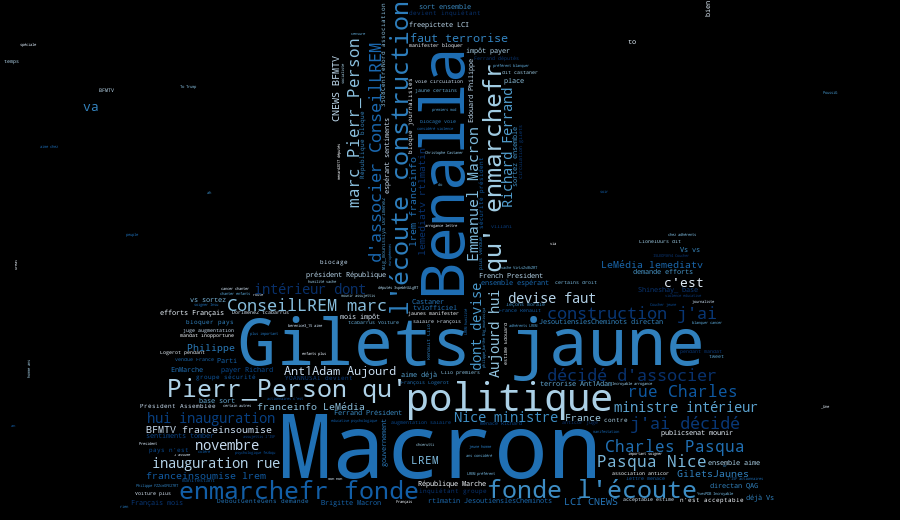
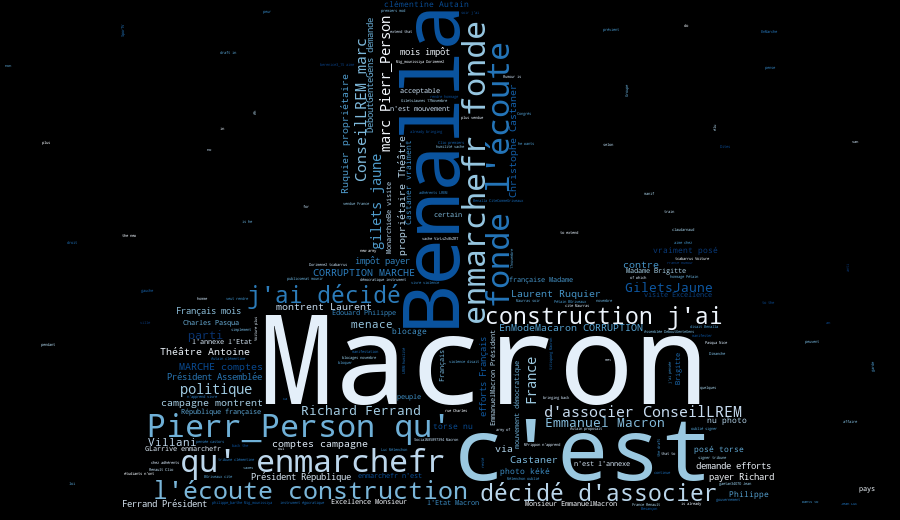
Dernier commit. Implémentation du serveur bash, rajout de deux candidats politiques. Extension de l'application pour qu'elle fonctionne pour n'importe quel nombre de candidats. Todo lundi matin : testing du serveur (je ne peux pas tester actuellement car l'API est indisponible, j'ai fait trop de req

Changed region(s): [[0.1244, 0.0, 0.8711, 0.9846], [0.7778, 0.0, 0.8089, 0.0308], [0.0933, 0.1846, 0.1244, 0.2154]]

diff --git a/twitterPredictor/twitterDisplay/main.py b/twitterPredictor/twitterDisplay/main.py
@@ -5,109 +5,88 @@ import matplotlib.pyplot as plt
 import dash
 import dash_core_components as dcc
 import dash_html_components as html
-
-
-external_stylesheets = ['https://codepen.io/chriddyp/pen/bWLwgP.css']
-
-app = dash.Dash(__name__, external_stylesheets=external_stylesheets)
-
-app.layout = html.Div(children=[
-    html.H1(children='Popularité des candidats'),
-
-    html.Div(children='''
-        Graphes de comparaison des popularités de chaque candidat".
-    '''),
-
-
-#liste avg_RTS est une liste contennant les retweets moyen pour chaque candidat
-#liste avg_FAVS est une liste contennant les favoris moyen pour chaque candidat
-#avg_hashtags est une liste contennat le nombre moyen de hashtags pour chaque candidat
-#len_tweet est une liste contennant la longueur moyenne des tweets par candidat
-#tweet_sentimental est une liste de liste contennant les sentiments pour chaque candidat ( 0 neg, 1 neutre, 2 positif)
-#http://127.0.0.1:8050
-    dcc.Graph(
-        id='example-graphRTS',
-        figure={
-            'data': [
-                {'x': [1], 'y': [avg_RTS[0]], 'type': 'bar', 'name': 'Macron'},
-                {'x': [2], 'y': [avg_RTS[1]], 'type': 'bar', 'name': u'Fillon'},
-                {'x': [3], 'y': [avg_RTS[2]], 'type': 'bar', 'name': u'Le Pen'},
-            ],
-            'layout': {
-                'title': 'nombre moyen de retweets par candidat '
-            }
-        }
-    ),
-    dcc.Graph(
-        id='example-graphFAVS',
-        figure={
-            'data': [
-                {'x': [1], 'y': [avg_FAVS[0]], 'type': 'bar', 'name': 'Macron'},
-                {'x': [2], 'y': [avg_FAVS[1]], 'type': 'bar', 'name': u'Fillon'},
-                {'x': [3], 'y': [avg_FAVS[2]], 'type': 'bar', 'name': u'Le Pen'},
-            ],
-            'layout': {
-                'title': 'nombre moyen de favoris par candidat '
-            }
-        }
-    ),
-    dcc.Graph(
-        id='example-graphhashtags',
-        figure={
-            'data': [
-                {'x': [1], 'y': [avg_hashtags[0]], 'type': 'bar', 'name': 'Macron'},
-                {'x': [2], 'y': [avg_hashtags[1]], 'type': 'bar', 'name': u'Fillon'},
-                {'x': [3], 'y': [avg_hashtags[2]], 'type': 'bar', 'name': u'Le Pen'},
-            ],
-            'layout': {
-                'title': 'nombre moyen de hashtags par candidat '
-            }
-        }
-    ),
-    dcc.Graph(
-        id='example-graphtweets',
-        figure={
-            'data': [
-                {'x': [1], 'y': [len_tweet[0]], 'type': 'bar', 'name': 'Macron'},
-                {'x': [2], 'y': [len_tweet[1]], 'type': 'bar', 'name': u'Fillon'},
-                {'x': [3], 'y': [len_tweet[2]], 'type': 'bar', 'name': u'Le Pen'},
-            ],
-            'layout': {
-                'title': 'longueur moyenne des tweets par candidat '
-            }
-        }
-    ),
-    dcc.Graph(
-        id='example-graphsentiments',
-        figure={
-            'data': [
-                {'x': [1,2,3], 'y': [tweet_sentimental[0][0],tweet_sentimental[0][1],tweet_sentimental[0][2]], 'type': 'bar', 'name': 'Macron'},
-                {'x': [1,2,3], 'y': [tweet_sentimental[1][0],tweet_sentimental[1][1],tweet_sentimental[1][2]], 'type': 'bar', 'name': u'Fillon'},
-                {'x': [1,2,3], 'y': [tweet_sentimental[2][0],tweet_sentimental[2][1],tweet_sentimental[2][2]], 'type': 'bar', 'name': u'Le Pen'},
-            ],
-            'layout': {
-                'title': 'graphe de subjectivité des candidats '
-            }
-        }
-    ),
-    html.Div(children='''
-        tweets négatifs,neutres positifs.
-    ''')
-])
-
-if __name__ == '__main__':
-    app.run_server(debug=True)
+import base64
 
 from os import path
 from PIL import Image
 from wordcloud import WordCloud, STOPWORDS, ImageColorGenerator
-
 from stop_words import get_stop_words
 
-stop_words = get_stop_words('fr')
 
-numberCandidates = 3
+# liste avg_RTS est une liste contennant les retweets moyen pour chaque candidat
+# liste avg_FAVS est une liste contennant les favoris moyen pour chaque candidat
+# avg_hashtags est une liste contennat le nombre moyen de hashtags pour chaque candidat
+# len_tweet est une liste contennant la longueur moyenne des tweets par candidat
+# tweet_sentimental est une liste de liste contennant les sentiments pour chaque candidat ( 0 neg, 1 neutre, 2 positif)
 
+# Adresse du serveur sur lequel les résultats seront affichés : http://127.0.0.1:8050
+
+
+numberCandidates = 5
+
+def launch_app(analysis): 
+    external_stylesheets = ['https://codepen.io/chriddyp/pen/bWLwgP.css'] # Feuille template stylisant l'interface Dash
+
+    app = dash.Dash(__name__, external_stylesheets=external_stylesheets) # Création de l'object application
+
+    app.layout = html.Div(children=[
+            html.H1(children='Popularité des candidats'),
+
+            html.Div(children='Graphes de comparaison des popularités de chaque candidat.'),
+
+            dcc.Graph(
+                id='graphRts',
+                figure={
+                'data' : [{'x' : [i], 'y' : [analysis[i - 1]["avg_RT"]], 'type' : 'bar', 'name' : 'Candidat numéro ' + str(i)} for i in range(1, numberCandidates + 1)],
+                'layout': {
+                'title': 'Nombre moyen de retweets par tweet.'
+                }
+                }),
+
+            dcc.Graph(
+                    id='graphFavs',
+                    figure={
+                    'data':  [{'x' : [i], 'y' : [analysis[i - 1]["avg_fav"]], 'type' : 'bar', 'name' : 'Candidat numéro ' + str(i)} for i in range(1, numberCandidates + 1)],
+                    'layout': {
+                    'title': 'Nombre moyen de personnes marquant un tweet conercnant un candidat en tant que favoris.'
+                    }
+                    }),
+
+            dcc.Graph(
+                    id='graphHashtags',
+                    figure={
+                    'data': [{'x' : [i], 'y' : [analysis[i - 1]["avg_hashtag"]], 'type' : 'bar', 'name' : 'Candidat numéro ' + str(i)} for i in range(1, numberCandidates + 1)],
+
+                    'layout': {
+                    'title': 'Nombre moyen de hashtags par candidat.'
+                    }
+                    }),
+
+            dcc.Graph(
+                    id='graphLenTweets',
+                    figure={
+                    'data': [{'x' : [i], 'y' : [analysis[i - 1]["avg_len_tweets"]], 'type' : 'bar', 'name' : 'Candidat numéro ' + str(i)} for i in range(1, numberCandidates + 1)],
+                    'layout': {
+                    'title': 'Longueur moyenne des tweets par candidat.'
+                    }
+                    }),
+
+            dcc.Graph(
+                    id='graphSentiments',
+                    figure={
+                    'data' : [{'x' :  [i], 'y' : [analysis[i - 1]["tweets_neg"], analysis[i - 1]["tweets_neu"], analysis[i - 1]["tweets_pos"]], 'type' : 'bar', 'name' : 'Candidat numéro ' + str(i)} for i in range(1, numberCandidates + 1)],
+                    'layout': {
+                    'title': 'Graphe de subjectivité des tweets par candidat.'
+                    }
+                    }),
+
+            html.Div(children='''
+                    Tweets négatifs, tweets neutres, tweets positifs.''')
+            ])
+
+    app.run_server(debug=True)
+
+"""
 def get_frequency(text):
     resultat, tempdict = multidict.MultiDict(), {}
 
@@ -119,7 +98,7 @@ def get_frequency(text):
     for key in tempdict: # On copie tempdict dans un Multidict
         resultat.add(key, tempdict[key])
 
-    return resultat
+    return resultat"""
 
 def nuage(tweets, c = -1): # Fonction affichant le wordcloud associé aux tweets concernant le candidat numéro c
     if c != -1: # Le cas c = -1 correspond à effectuer un wordcloud sur l'ensemble des tweets concernant tous les candidats
@@ -128,13 +107,15 @@ def nuage(tweets, c = -1): # Fonction affichant le wordcloud associé aux tweets
     chaine = ""
     for t in tweets: # Concaténation des tweets pour analyse statistique (wordcloud)
         chaine += t["text"]
+
+    stop_words = get_stop_words('fr')
     
     stopwords = set(stop_words) # Mots à exclure car trop communs
     stopwords.update(["https", "co", "RT"])
 
     wave_mask = np.array(Image.open("mask.jpg")) # Création du masque
 
-    wordcloud = WordCloud(colormap = "Blues", mask=wave_mask, stopwords = stopwords).generate_from_frequencies(get_frequency(chaine)) # Création du wordcloud
+    wordcloud = WordCloud(colormap = "Blues", mask=wave_mask, stopwords = stopwords).generate(chaine) # Création du wordcloud
 
     #plt.imshow(wordcloud, interpolation='bilinear') # Affichage du wordcloud
     #plt.plot()
@@ -151,3 +132,5 @@ def td_execute(tweets, analysis):
     for c in range(1, numberCandidates + 1):
         print("Création du nuage de mots pour le candidat " + str(c) + ".")
         nuage(tweets, c)
+
+    launch_app(analysis)

diff --git a/twitterPredictor/twitterProcessing/main.py b/twitterPredictor/twitterProcessing/main.py
@@ -3,7 +3,7 @@ from textblob import Word
 
 
 
-numberCandidates = 3
+numberCandidates = 5
 
 
 
@@ -214,6 +214,8 @@ def tp_execute(tweets):
     tweetsLematises, tweetsMotsUniques = [], []
     tweetsPositifs, tweetsNeutres, tweetsNegatifs = [], [], []
 
+    resultat = []
+
     for c in range(1, numberCandidates + 1): # On calcule l'ensemble des valeurs associées à l'ensemble des tweets liés à chque candidat
         candidats.append([t for t in tweets if t["candidat"] == c])
         avgHashtag.append(avg_hashtag(candidats[-1]))
@@ -241,5 +243,6 @@ def tp_execute(tweets):
         tweets_neg = len(tweetsNegatifs[-1]) * 100 / len(candidats[-1])
         tweets_neu = len(tweetsNeutres[-1]) * 100 / len(candidats[-1])
 
-    return [{"tweets_pos" : tweets_pos, "tweets_neg" : tweets_neg, "tweets_neu" : tweets_neu, "avg_hashtag" : avgHashtag, "max_hashtag" : maxHashtag, "min_hashtag" : minHashtag, "min_len_tweets" : minLenTweets, "max_len_tweets" : maxLenTweets,"avg_len_tweets" : avgLenTweets, "min_fav" : minFav, "max_fav" : maxFav, "avg_fav" : avgFav, "min_RT" : minRT, "max_RT" : maxRT, "avg_RT" : avgRT}, tweetsLematises, tweetsMotsUniques, tweetsPositifs, tweetsNeutres, tweetsNegatifs]
+        resultat.append({"tweets_pos" : tweets_pos, "tweets_neg" : tweets_neg, "tweets_neu" : tweets_neu, "avg_hashtag" : avgHashtag, "max_hashtag" : maxHashtag, "min_hashtag" : minHashtag, "min_len_tweets" : minLenTweets, "max_len_tweets" : maxLenTweets,"avg_len_tweets" : avgLenTweets, "min_fav" : minFav, "max_fav" : maxFav, "avg_fav" : avgFav, "min_RT" : minRT, "max_RT" : maxRT, "avg_RT" : avgRT, "tweetsLematises" : tweetsLematises, "tweetsMotsUniques" : tweetsMotsUniques, "tweetsPositifs" : tweetsPositifs, "tweetsNeutres" : tweetsNeutres, "tweetsNegatifs" : tweetsNegatifs})
 
+    return resultat

diff --git a/twitterPredictor/twitterStorage/main.py b/twitterPredictor/twitterStorage/main.py
@@ -2,30 +2,30 @@ import json
 import pandas as pd
 
 
-numberCandidates = 3
+numberCandidates = 5
 
 
-def store_tweets(tweets,filename):
+def store_tweets(tweets,filename): # Fonction enregistrant les tweets dans un fichier json
     with open(filename,"w") as f: #ouverture du fichier
         for t in tweets:
             json.dump(t,f) #ajout de l'élément
 
 
 
-def unstore_tweets(filename):
+def unstore_tweets(filename): # Fonction permettant de récupérer les tweets préalablement stockés dans un ficheir json
 	with open(filename,"r") as file : #ouverture du fichier
 		tweets=json.load(file) #transformation du fichier json en une liste de listes tweets?
 	return tweets
 
 
 
-def tableau_donnees(tweet_status):
+def tableau_donnees(tweet_status): # Fonction auxiliaire
 	tweet_json=json.dump(tweet_status[0]) #transformation d'un status en json
 
 
 
-def json_to_dataframe(dico_json):
-	dico_python=json.loads(dico_json) #extraction du dictionnaore de json vers python
+def json_to_dataframe(dico_json): # Fonction permettant de transférer des données json en dataframe
+	dico_python=json.loads(dico_json) #extraction du dictionnaire de json vers python
 	array=pd.DataFrame(dico_python)	#transformation du dico en tableau à l'aide de panda
 	return(array) #affichage du tableau
 

diff --git a/twitterPredictor/main.py b/twitterPredictor/main.py
@@ -8,6 +8,8 @@ from twitterStorage.main import *
 from twitterDisplay.main import *
 from twitterProcessing.main import *
 
+# Put your credentials file here -----
+
 tweets = tc_execute() # Récupération d'une liste de tweets représentés chacun par un dictionnaire
 ts_execute(tweets) # stockage des tweets pour une utilisation ultérieure
 analysis = tp_execute(tweets) # renvoie un dictionnaire composé des analyses effectuées sur l'ensemble des tweets
